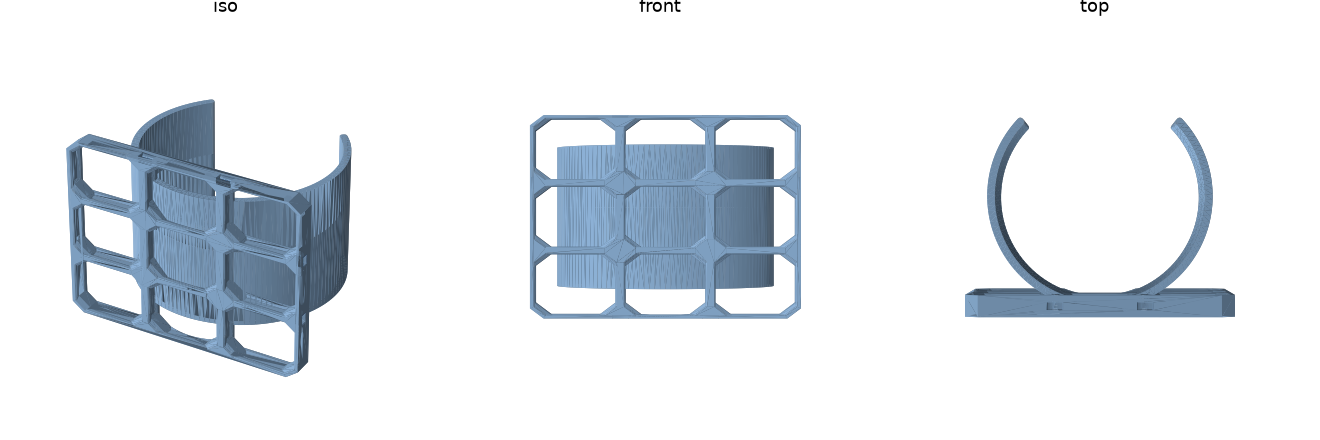
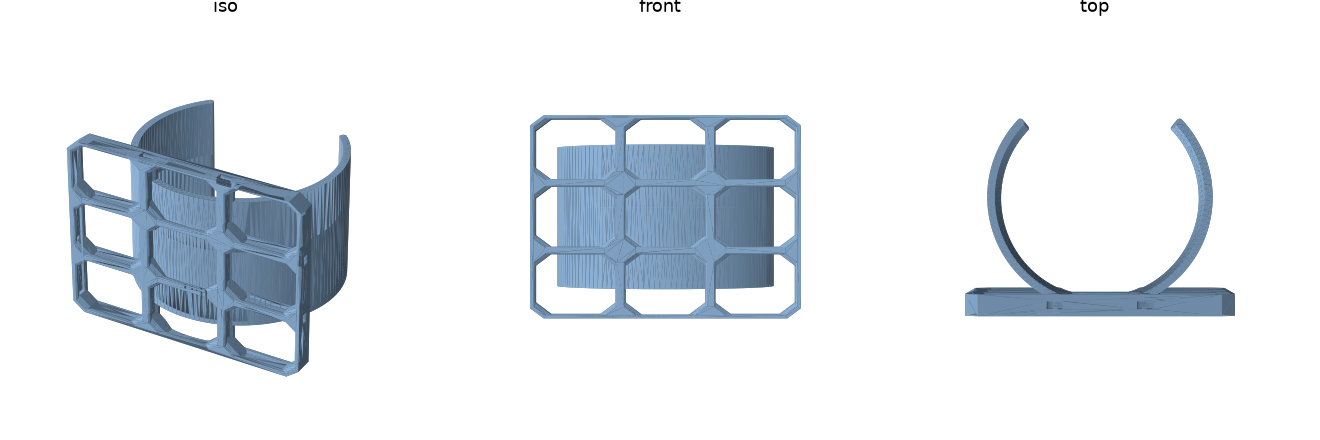
fix(build123d): tile off ring-wall midplane — non-watertight STLs at h=20 (pst-98p4)
Second round-2 finding on PR #75: h=20 still exported non-watertight STLs
for d in {30,40,50,56,85,90,112}. Root cause is the same degenerate-boolean
family: the tile was centered exactly on the ring's back-wall midplane
(back_center_y + 3.4), so at small collar heights the bore re-carve cut face
landed degenerate against the tile lattice faces. Moving the tile center
+0.6mm (to 4.0) breaks the degeneracy while keeping the same solid overlap
into the ring wall.

Verified watertight + single solid on a 630-case corner grid (d in
{30,40,50,56,57,66,73,84,85,90,100,112,113,120} x h in {20,50,60,100,120}
x wall in {1.6,2.4,4.0} x opening in {60,90,120}). Regression matrix now
covers both review rounds' failing footprints at h in {20,60} and wall in
{1.6,2.4}. 37 tests pass.

🤖 Generated with [Claude Code](https://claude.com/claude-code)

diff --git a/build123d/tests/test_cylindrical.py b/build123d/tests/test_cylindrical.py
@@ -176,7 +176,7 @@ def test_mount_is_the_library_tile():
     tile = Base(x_count=x_count, y_count=y_count)
     tile = tile.moved(Location((0, 0, 0), (1, 0, 0), 90))
     back_center_y = -(r_in + r_out) / 2.0
-    tile = tile.moved(Location((0, back_center_y + 3.4, h / 2.0)))
+    tile = tile.moved(Location((0, back_center_y + 4.0, h / 2.0)))
 
     bore = Cylinder(
         radius=r_in + BORE_CLEARANCE, height=h + 8.0,
@@ -190,17 +190,30 @@ def test_mount_is_the_library_tile():
     )
 
 
-@pytest.mark.parametrize("d", [D_MIN, 50.0, 85.0, 90.0, 112.0, D_MAX])
-def test_export_is_watertight_across_diameter_range(d, tmp_path):
-    """Regression: the bore re-carve must stay off-coplanar with the
-    collar's inner face. A coplanar carve left the exported STL
-    non-watertight for several tile footprints (d=30..50, 85..112)."""
-    part = holder(d, 60.0)
-    stl = tmp_path / f"wt_d{d}.stl"
-    export_stl(part, str(stl))
-    mesh = trimesh.load_mesh(stl)
-    assert mesh.is_watertight, f"d={d}: exported STL not watertight"
-    assert mesh.body_count == 1
+@pytest.mark.parametrize(
+    ("d", "h"),
+    [
+        # Review round 2's failing set at h=20 (tile z-extent degeneracy),
+        # plus the round-1 failing set at h=60, plus two known-good points.
+        (30.0, 20.0), (40.0, 20.0), (50.0, 20.0), (56.0, 20.0),
+        (85.0, 20.0), (90.0, 20.0), (112.0, 20.0), (66.0, 20.0),
+        (30.0, 60.0), (50.0, 60.0), (85.0, 60.0), (90.0, 60.0),
+        (112.0, 60.0), (66.0, 60.0),
+    ],
+)
+def test_export_is_watertight_across_corner_cases(d, h, tmp_path):
+    """Regression: the bore re-carve and the tile fuse must stay
+    off-degenerate across the parameter space. Two coplanar-boolean
+    defects left exported STLs non-watertight: the bore at exactly r_in
+    (round 1, h=60 footprints) and the tile centered on the ring wall
+    midplane (round 2, h=20 footprints)."""
+    for wall in (WALL_MIN, 2.4):
+        part = holder(d, h, wall=wall)
+        stl = tmp_path / f"wt_d{d}_h{h}_w{wall}.stl"
+        export_stl(part, str(stl))
+        mesh = trimesh.load_mesh(stl)
+        assert mesh.is_watertight, f"d={d}, h={h}, wall={wall}: not watertight"
+        assert mesh.body_count == 1
 
 
 def test_can_space_is_clear():

diff --git a/build123d/holders/cylindrical.py b/build123d/holders/cylindrical.py
@@ -183,9 +183,12 @@ def holder(
     # Snap face (local +Z) ends up on -Y: the board side.
     tile = tile.moved(Location((0, 0, 0), (1, 0, 0), 90))
     # Straddle the collar's back wall (y in [-r_out, -r_in]) so the fuse
-    # gets solid overlap, not a tangent touch.
+    # gets solid overlap, not a tangent touch. The +4.0 centering (vs the
+    # exact wall midplane at 3.4) moves the bore's re-carve cut face off
+    # the tile lattice faces; at the exact midplane the carve was
+    # degenerate for several footprints and left open STL edges at h=20.
     back_center_y = -(r_in + r_out) / 2.0
-    tile = tile.moved(Location((0, back_center_y + 3.4, h / 2.0)))
+    tile = tile.moved(Location((0, back_center_y + 4.0, h / 2.0)))
 
     part = collar.fuse(tile)
 
